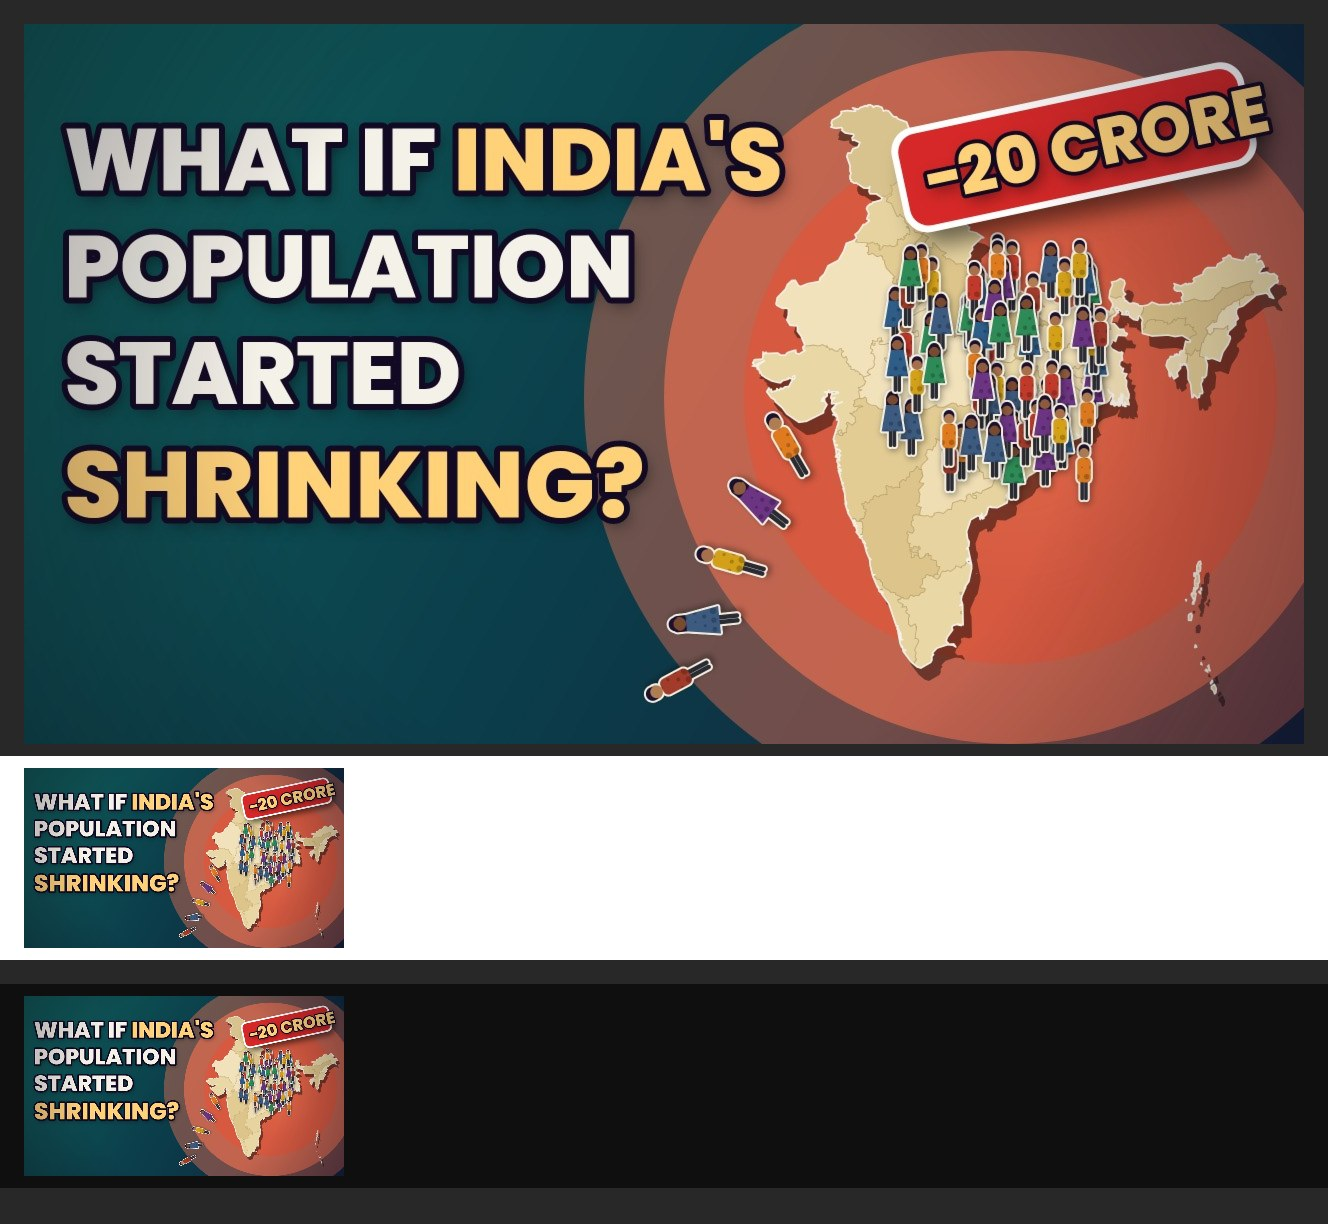
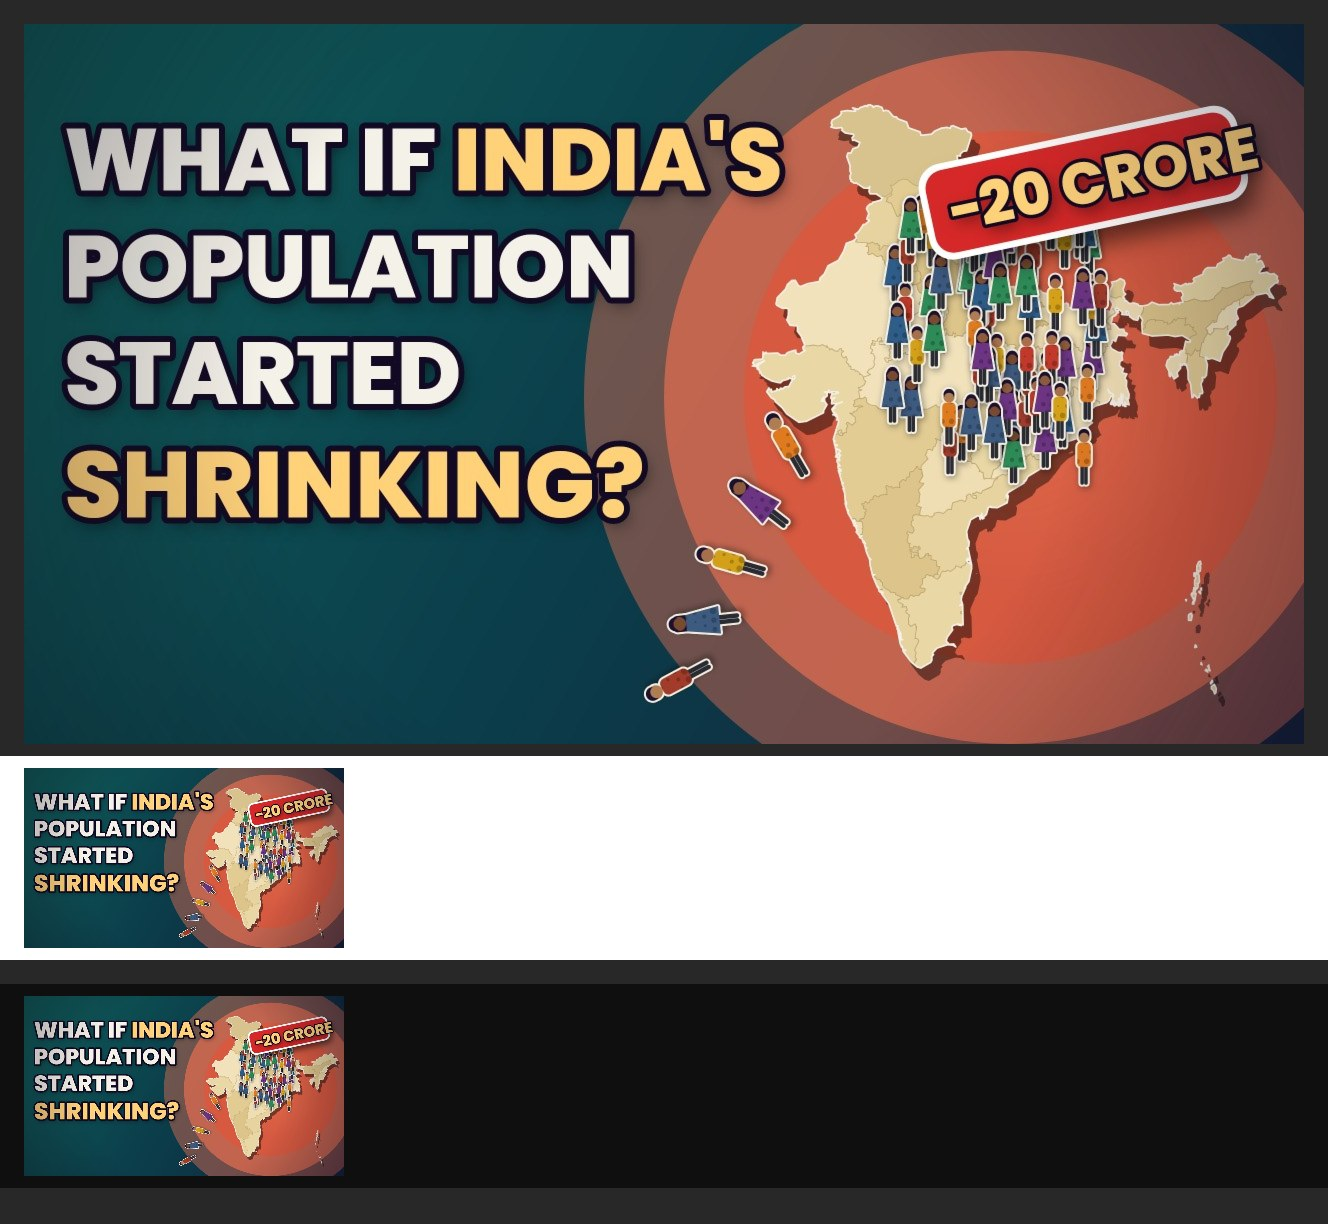
india-population-shrinking: thumbnail sticker lower, 10% smaller
Claude-Session: https://claude.ai/code/session_01WCp4uQEYis8QAmCexfaYWR

Changed region(s): [[0.6483, 0.031, 0.9571, 0.4346], [0.1544, 0.8072, 0.247, 0.9314], [0.1544, 0.6209, 0.247, 0.7451]]

diff --git a/runs/india-population-shrinking/video/thumbs.py b/runs/india-population-shrinking/video/thumbs.py
@@ -44,7 +44,7 @@ def thumb(c):
     # a crowd on the map, thinning towards the south-east edge where people fall off
     for i in range(70):
         x = cx + (rng(i, 2) - 0.5) * k * 12 - 20
-        y = cy + (rng(i, 3) - 0.5) * k * 12 - 10
+        y = cy + (rng(i, 3) - 0.5) * k * 14 - 60
         cutout(c, lambda kk, x=x, y=y, i=i: figure(kk, x, y, 0.22, i=i, female=i % 2 == 0), border=3, shadow=(2, 3))
     for i in range(5):
         x = cx - 330 - i * 40
@@ -52,13 +52,13 @@ def thumb(c):
         c.save(); c.rotate(-30 - i * 22, x, y - 40)
         cutout(c, lambda kk, x=x, y=y, i=i: figure(kk, x, y, 0.28, i=i + 3, female=i % 2 == 1), border=3, shadow=(3, 5))
         c.restore()
-    sx, sy, sw, shh = 1315, 115, 520, 140
+    sx, sy, sw, shh = 1355, 175, 468, 126
     c.save(); c.rotate(-12, sx + sw / 2, sy + shh / 2)
     sh = paint("#000000", 0.55); sh.setMaskFilter(skia.MaskFilter.MakeBlur(skia.kNormal_BlurStyle, 18))
     c.drawRRect(skia.RRect.MakeRectXY(skia.Rect(sx + 8, sy + 22, sx + sw + 18, sy + shh + 32), 36, 36), sh)
     c.drawRRect(skia.RRect.MakeRectXY(skia.Rect(sx - 10, sy - 10, sx + sw + 10, sy + shh + 10), 36, 36), paint("#FFFFFF"))
     c.drawRRect(skia.RRect.MakeRectXY(skia.Rect(sx, sy, sx + sw, sy + shh), 28, 28), paint("#D62828"))
-    outline_text(c, "−20 CRORE", sx + 32, sy + 106, 98, "gold", stroke=12)
+    outline_text(c, "−20 CRORE", sx + 29, sy + 95, 88, "gold", stroke=11)
     c.restore()
     # title, word for word, key word in gold
     words(c, [("WHAT IF ", "cream"), ("INDIA'S", "gold")], 60, 250, 132)
